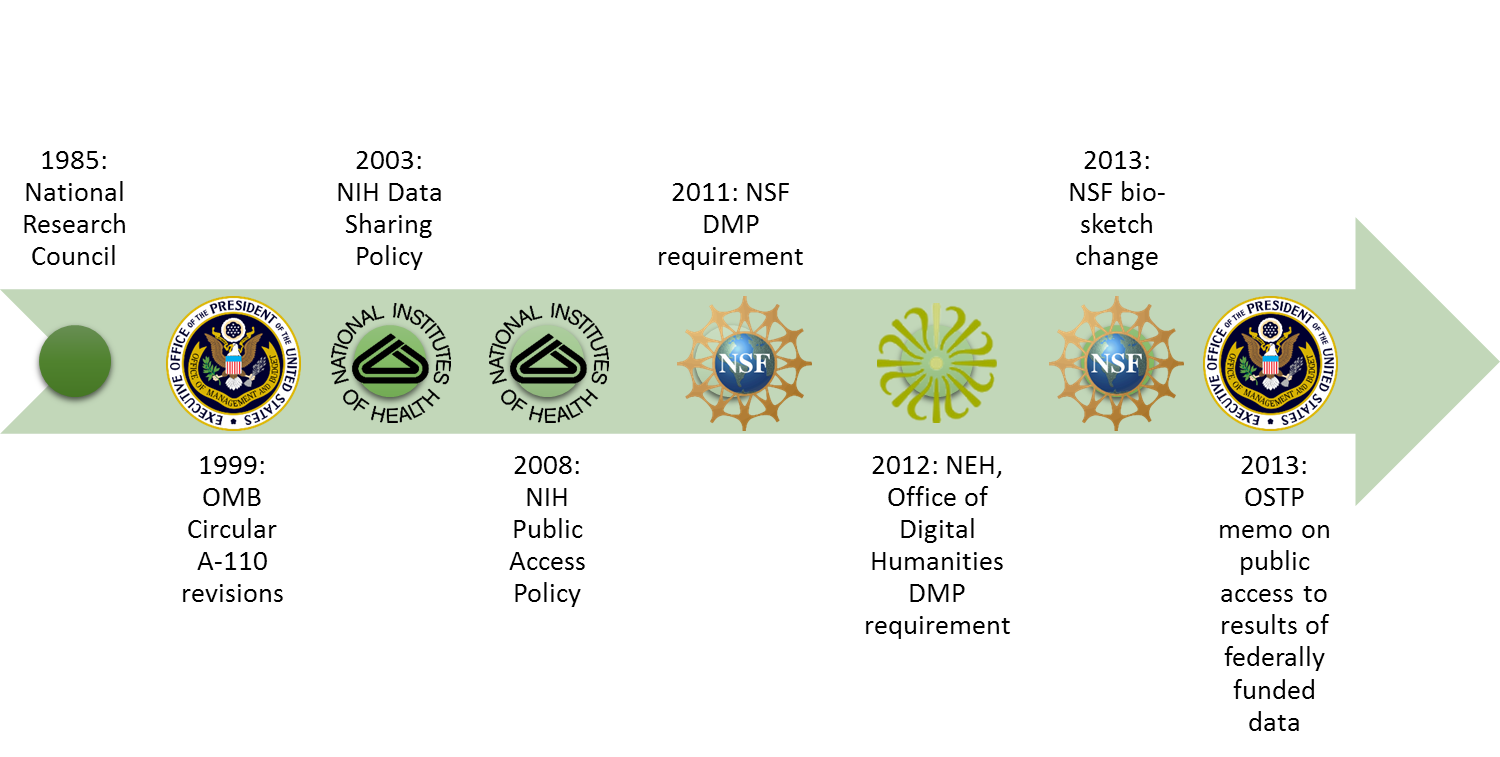
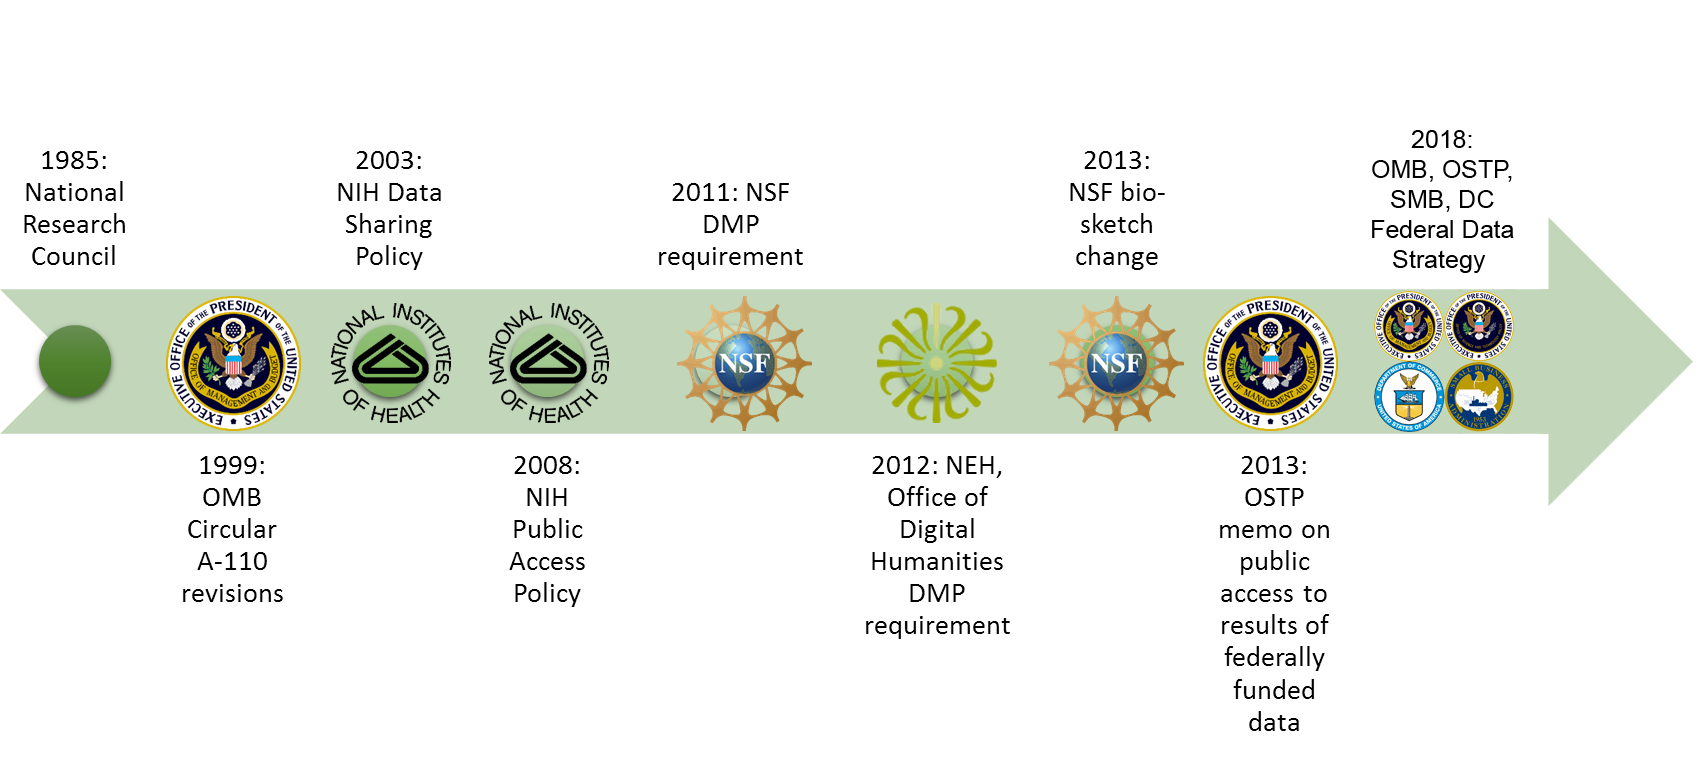
federal data strategy in seminar

diff --git a/Data-Management-Seminar/slides/slides01.html b/Data-Management-Seminar/slides/slides01.html
@@ -15,11 +15,11 @@
       <!-- ***
             * Introduction
             * -->
-						
+
       <section data-background-image="../../common/assets/images-for-data/HuayhuashContourColorCover.png">
         <div style="margin-top: -110px; margin-left: 100px; font-size: 150%; text-shadow: 0px 0px 23px #ede9e2, 0px 0px 23px #ede9e2, 0px 0px 23px #ede9e2, 0px 0px 23px #ede9e2, 0px 0px 23px #ede9e2, 0px 0px 23px #ede9e2, 0px 0px 23px #ede9e2;"><strong>The Data Management Challenge</strong></div>
         <div style="margin-top: 70px; margin-left: 380px; font-size: 100%; text-shadow: 0px 0px 23px #ede9e2, 0px 0px 23px #ede9e2, 0px 0px 23px #ede9e2, 0px 0px 23px #ede9e2, 0px 0px 23px #ede9e2, 0px 0px 23px #ede9e2, 0px 0px 23px #ede9e2;"><strong>wrangling data in the research environment</strong></div>
-        <div style="margin-top: 60px; margin-left: 260px; font-size: 60%; text-align: left; text-shadow: 0px 0px 13px #ede9e2, 0px 0px 13px #ede9e2, 0px 0px 13px #ede9e2, 0px 0px 13px #ede9e2, 0px 0px 13px #ede9e2, 0px 0px 13px #ede9e2, 0px 0px 13px #ede9e2, 0px 0px 13px #ede9e2, 0px 0px 13px #ede9e2, 0px 0px 13px #ede9e2, 0px 0px 13px #ede9e2;">Tim Norris - <a href="mailto:tnorris@miami.edu" style="color: #000 !important;">tnorris@miami.edu</a><br>Spring 2018 Library Seminars<br><a href="https://bit.ly/2IY8eUi">https://bit.ly/2IY8eUi</a></div>
+        <div style="margin-top: 60px; margin-left: 260px; font-size: 60%; text-align: left; text-shadow: 0px 0px 13px #ede9e2, 0px 0px 13px #ede9e2, 0px 0px 13px #ede9e2, 0px 0px 13px #ede9e2, 0px 0px 13px #ede9e2, 0px 0px 13px #ede9e2, 0px 0px 13px #ede9e2, 0px 0px 13px #ede9e2, 0px 0px 13px #ede9e2, 0px 0px 13px #ede9e2, 0px 0px 13px #ede9e2;">Tim Norris - <a href="mailto:tnorris@miami.edu" style="color: #000 !important;">tnorris@miami.edu</a><br>Fall 2018 Library Seminars<br><a href="https://bit.ly/2IY8eUi">https://bit.ly/2IY8eUi</a></div>
       </section>
 
       <section>
@@ -103,7 +103,7 @@
         <section data-background-image="../../common/assets/images-for-data/matrix.jpg" style="color: #92d050 !important;">
             <div style="background-color: rgba(0, 0, 0, 0.7); width: 100%; padding: 50px 0px 50px 0px" class="fragment">
                 <span style="font-weight: bold; font-size: 110%;">The Data Deluge<br></span>
-                <div style="width: 50%; margin-left: auto; margin-right: auto; font-size: 80%; text-align: left; width: 65%; padding-left: 100px;">
+                <div style="margin-left: auto; margin-right: auto; font-size: 80%; text-align: left; width: 70%; padding-left: 100px;">
                   <div style="margin-top: 23px" class="fragment">
                     Data Sharing Requirements<br>
                     <ul style="font-size: 80%; margin-left: 46px;"><li>NIH: October 2003</li></ul>
@@ -122,6 +122,12 @@
                       <li>Both peer-reviewed publications and data</li>
                     </ul>
                   </div>
+                  <div style="margin-top: 23px;" class="fragment">
+                    The 2018 Federal Data Strategy<br>
+                    <ul style="font-size: 80%; margin-left: 46px;">
+                      <li>Governance, access, accountability, innovation</li>
+                    </ul>
+                  </div>
                 </div>
             </div>
             <aside class="notes">
@@ -131,10 +137,10 @@
 
         <section>
             <div style="position: absolute; left: 50px; top: 0px; font-size: 110%; font-weight: bold;">Federal Movement Towards Open Data</div>
-            <br><img src="../../common/assets/images-for-data/federalmovement.png" style="width: 70%; max-width: 100% !important;">
-            <div style="position: absolute; bottom: -70px; left: 130px; width: 100%; text-align: left; font-size: 50%; line-height: normal;">Whitmire, Amanda L. (2014). Research Data Management Curriculum, Lecture 2: Introduction to Research Data Management.<br> Oregon State University Libraries. <a target="_blank" href="http://figshare.com/articles/GRAD521_Research_Data_Management_Lectures/1003835">http://figshare.com/articles/GRAD521_Research_Data_Management_Lectures/1003835</a></div>
+            <br><img src="../../common/assets/images-for-data/federalmovement.png" style="width: 75%; max-width: 100% !important;">
+            <div style="position: absolute; bottom: -70px; left: 100px; width: 95%; text-align: left; font-size: 45%; line-height: normal;">Adapted from: Whitmire, Amanda L. (2014). Research Data Management Curriculum, Lecture 2: Introduction to Research Data Management.<br> Oregon State University Libraries. <a target="_blank" href="http://figshare.com/articles/GRAD521_Research_Data_Management_Lectures/1003835">http://figshare.com/articles/GRAD521_Research_Data_Management_Lectures/1003835</a></div>
         </section>
-        
+            
         <section>
             <div style="font-weight: bold; font-size: 110%; margin: auto auto 70px auto;">The 2013 OSTP Memo</div>
             <div style="font-size: 80%; text-align: left; width: 75%; margin-left: 200px;">
@@ -321,6 +327,27 @@
              </tr>
             </table>
             <br><span style="font-size: 50%;">adapted from <a target="_blank" href="http://bit.ly/FedOASummary ">http://bit.ly/FedOASummary</a></span>
+        </section>
+        
+        <section>
+            <div style="font-weight: bold; font-size: 110%; margin: auto auto auto auto;">The 2018 Federal Data Strategy</div>
+            <div style="width: 100%; text-align: center; font-size: 60%; line-height: normal;">
+              <a target="_blank" href="https://strategy.data.gov">https://strategy.data.gov</a>
+            </div>
+            <div style="font-size: 80%; text-align: left; width: 75%; margin-left: 240px; margin-top: 30px;">
+                <ul>
+                    <li>Enterprise Data Governance</li>
+                    <li>Access, Use, Augmentation</li>
+                    <li>Decision Making & Accountability</li>
+                    <li>Commercialization, Innovation, and Public Use</li>
+                </ul>
+            </div>
+            <div style="width: 70%; font-size: 60%; margin-top: 40px; margin-left: auto; margin-right: auto">
+                This is a collaborative effort that addresses the cross-agency priority (CAP) goal to <a href="https://www.performance.gov/CAP/CAP_goal_2.html">Leverage Data as a Strategic Asset</a>.
+            </div>
+            <aside class="notes">
+              Data.gov in 2009 (referenced later as well)<br>Note that the strategic development is interdepartmental "Cross-Agency Priority (CAP) Goal"
+            </aside>
         </section>
 
       </section>
